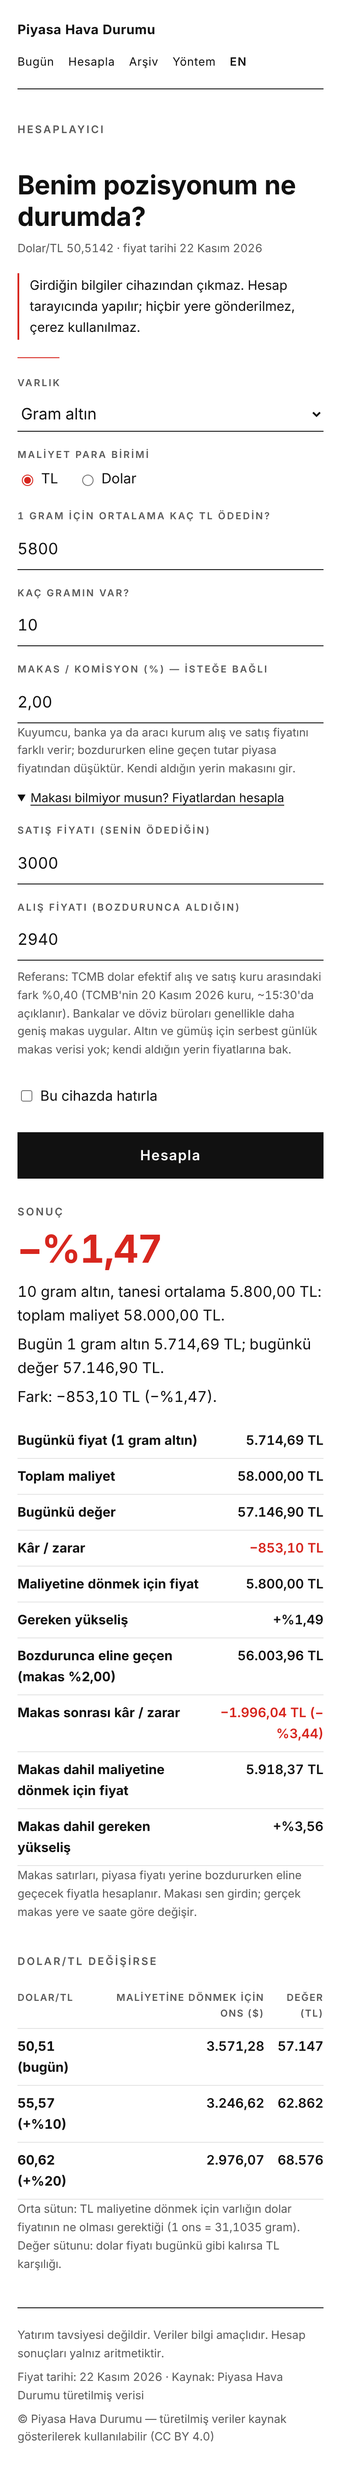
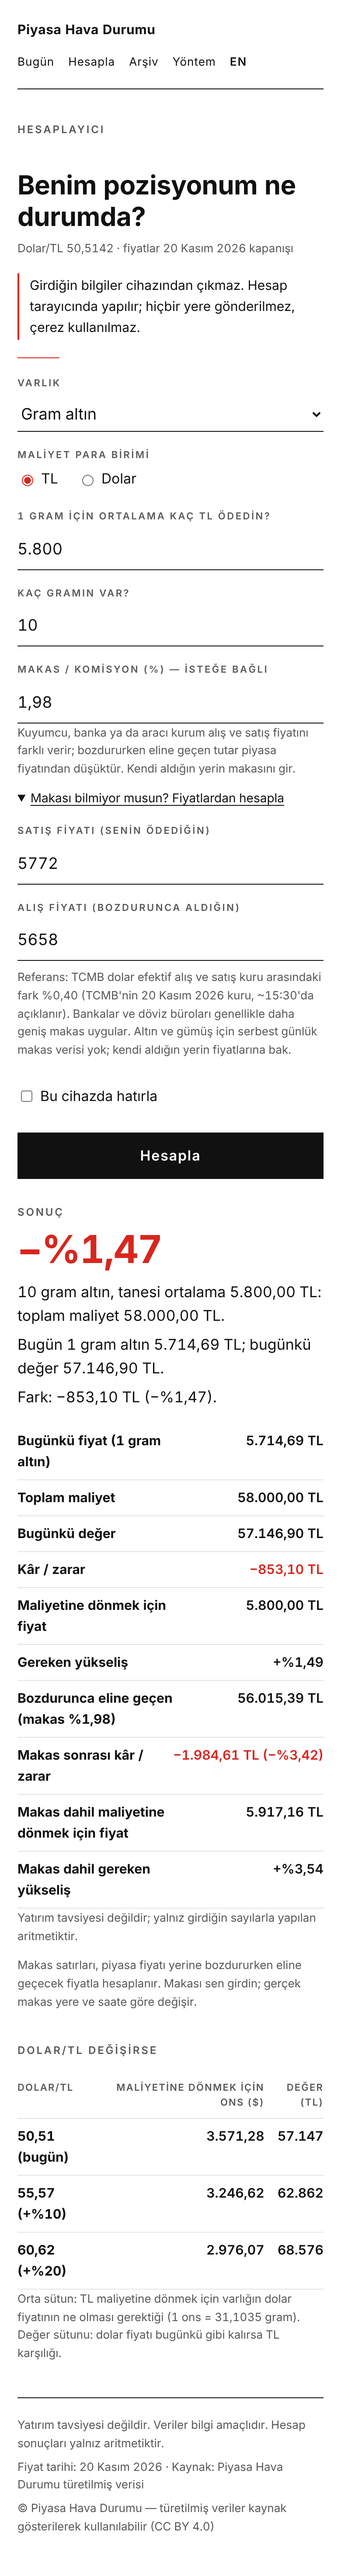
Calculator: one price date, Turkish thousands parsing, realistic spread examples, disclaimer by result; data-source research notes
Claude-Session: https://claude.ai/code/session_01HYDefgn5NWFqFd8ndNssHq

diff --git a/piyasa/hesapla.js b/piyasa/hesapla.js
@@ -8,7 +8,7 @@
   var DATA = /\.github\.io$/.test(location.hostname) ? RAW : "data/site/";
   var KEY = "phd-hesapla-v1";
   var MONTHS = ["Ocak", "Şubat", "Mart", "Nisan", "Mayıs", "Haziran", "Temmuz", "Ağustos", "Eylül", "Ekim", "Kasım", "Aralık"];
-  var P = null;
+  var P = null, PDATE = "";
   var I = window.PHD_I18N, EN = !!(I && I.en);
   var MONTHS_EN = ["January", "February", "March", "April", "May", "June", "July", "August", "September", "October", "November", "December"];
   function L(tr, en) { return EN ? en : tr; }
@@ -30,6 +30,7 @@
     s = String(s || "").trim().replace(/\s/g, "");
     if (EN && /\./.test(s)) s = s.replace(/,/g, "");                // 1,234.56 -> 1234.56
     else if (/,/.test(s)) s = s.replace(/\./g, "").replace(",", ".");   // 1.234,56 -> 1234.56
+    else if (!EN && /^\d{1,3}(\.\d{3})+$/.test(s)) s = s.replace(/\./g, "");  // 5.800 -> 5800 (Turkish thousands)
     else if (EN) s = s.replace(/,/g, "");                            // 10,000 -> 10000
     var v = parseFloat(s);
     return isFinite(v) ? v : NaN;
@@ -109,6 +110,12 @@
     var tp = todayPrice(a, c);
     $("maliyet").placeholder = tp ? L("bugün: ", "today: ") + num(tp, tp >= 1000 ? 0 : 2) : L("örn. 102,50", "e.g. 102.50");
     $("miktar").placeholder = a === "bist100" ? L("örn. 10.000", "e.g. 10,000") : L("örn. 10", "e.g. 10");
+    // dealer-price examples near today's price (2% apart), so the example is never far from reality
+    if (tp && a !== "bist100") {
+      var ex = function (v) { return v >= 1000 ? String(Math.round(v)) : num(v, 2); };
+      $("makas-satis").placeholder = L("örn. ", "e.g. ") + ex(tp * 1.01);
+      $("makas-alis").placeholder = L("örn. ", "e.g. ") + ex(tp * 0.99);
+    }
     save();
     var out = $("sonuc");
     out.textContent = "";
@@ -183,6 +190,8 @@
     }
     t.appendChild(tb);
     out.appendChild(t);
+    out.appendChild(el("p", "mute small", L("Yatırım tavsiyesi değildir; yalnız girdiğin sayılarla yapılan aritmetiktir.",
+      "Not investment advice; arithmetic on the numbers you entered.")));
     if (r.spreadPct) out.appendChild(el("p", "mute small", L(
       "Makas satırları, piyasa fiyatı yerine bozdururken eline geçecek fiyatla hesaplanır. Makası sen girdin; gerçek makas yere ve saate göre değişir.",
       "The spread rows use the price you would actually receive when selling instead of the market price. You entered the spread; real spreads vary by dealer and time.")));
@@ -223,7 +232,10 @@
 
   function init(d) {
     P = d && d.prices ? d.prices : null;
-    var meta = P ? L("Dolar/TL ", "USD/TRY ") + num(+P.usdtry, 4) + L(" · fiyat tarihi ", " · price date ") + trDate(P.usdtry_asof) : L("Güncel fiyat alınamadı.", "Current prices could not be loaded.");
+    // One date for the page: gram gold's last close (the dollar can carry thin weekend quotes with a later date).
+    var ga = d && (d.assets || []).filter(function (x) { return x && x.id === "gram_altin"; })[0];
+    PDATE = (ga && ga.asof) || (P && P.usdtry_asof) || "";
+    var meta = P ? L("Dolar/TL ", "USD/TRY ") + num(+P.usdtry, 4) + L(" · fiyatlar ", " · prices: ") + trDate(PDATE) + L(" kapanışı", " close") : L("Güncel fiyat alınamadı.", "Current prices could not be loaded.");
     $("fiyat-meta").textContent = meta;
     var mr = d && d.makas_ref && d.makas_ref.usd;
     if (mr && typeof mr.pct === "number" && /^\d{4}-\d{2}-\d{2}$/.test(mr.tarih || "")) {
@@ -233,7 +245,7 @@
         : "Referans: TCMB dolar efektif alış ve satış kuru arasındaki fark %" + num(mr.pct, 2) + " (TCMB'nin " + trDate(mr.tarih) + " kuru, ~15:30'da açıklanır). Bankalar ve döviz büroları genellikle daha geniş makas uygular. Altın ve gümüş için serbest günlük makas verisi yok; kendi aldığın yerin fiyatlarına bak.";
       refEl.hidden = false;
     }
-    $("foot-meta").textContent = L("Fiyat tarihi: ", "Price date: ") + (P ? trDate(P.usdtry_asof) : "—") + L(" · Kaynak: Piyasa Hava Durumu türetilmiş verisi", " · Source: Piyasa Hava Durumu derived data");
+    $("foot-meta").textContent = L("Fiyat tarihi: ", "Price date: ") + (P ? trDate(PDATE) : "—") + L(" · Kaynak: Piyasa Hava Durumu türetilmiş verisi", " · Source: Piyasa Hava Durumu derived data");
     update();
   }
 

diff --git a/piyasa/style.css b/piyasa/style.css
@@ -366,3 +366,4 @@ hr.rule-top{border:0;border-top:1px solid var(--rule);margin:28px 0 20px}
 @media (max-width:520px){header.masthead{flex-wrap:wrap;row-gap:10px;padding-top:22px}
 .brandbox,.brand{white-space:nowrap}
 header.masthead nav{width:100%}}
+.res td{white-space:nowrap}

diff --git a/docs/SITE_ROADMAP.md b/docs/SITE_ROADMAP.md
@@ -365,3 +365,4 @@ veri) yayımlanır; puanlama kodu (`tools/`), ham girdiler (`data/derivs`,
 - **2026-11-22 (Boran ile canlı, 9.)** — Dış değerlendirmeden (Opus + Sonnet) düzeltmeler: "İstatistik yalan söylemez" sloganı kaldırıldı (tüm sayfalar, config.js boş → gizli; og kartında yerine "Yatırım tavsiyesi değildir"). Mobil bant yatay kaydırma yerine 2 sütunlu ızgara (değerler kesilmiyor). Üst menüye "Hesapla" eklendi (tüm sayfalar, TR/EN). Ana sayfada seviyenin altına çerçeve cümlesi: seviye ne söyler/ne söylemez, yanlış alarm → Sicil bağlantısı, ABD verisinin bir iş günü gecikmesi. Eski önizleme görüntüleri (62 adet, bazıları "Yapım aşamasında"/örnek veri) silindi; güncel set gerçek data-feed verisiyle yeniden alındı. Kontrol edilenler: tarih seçici tr-TR'de gg.aa.yyyy (yanlış alarm — İngilizce tarayıcıdan); "Nasdaq 100" metni yalnız 21 Kasım'da üretilmiş today.json'da, kod zaten "Nasdaq Bileşik" yazıyor (bir sonraki iş günü düzelir, arşiv kayıtları yeniden yazılmaz).
 - **2026-11-22 (Boran ile canlı, 10.)** — Dış değerlendirmenin 6 önerisi (Boran onayı): (1) ana sayfa sırası: bant → TL tarafı (hesaplayıcı bağlantısı en üstte) → Günün özeti → Makro hava + kurallar → Sorular → "Daha fazlası" (5 sayfa tek listede); (2) sicil etiketleri nötr: "düşüş geldi / düşüş gelmedi / KIRMIZI'sız düşüş" (sicil.json kodları aynı, yalnız görünen kelime; yontem/arsiv/statik özet TR+EN); (3) yontem.html "Eşikler neden bu değerler?" (ayarlanmadı, yuvarlak ve yaygın değerler, donduruldu) + history.csv'den seviye dağılımı (`yontem-stats.js`, CSP connect-src eklendi); (4) "Sorular" bölümünden kural listesini tekrarlayan soru çıkarıldı; (5) Türkiye bileşeni → `docs/MAKRO_KURALLAR_v2_TASLAK.md` (yürürlükte değil; ⏸ Boran: EVDS API anahtarı + eşik kararı); (6) Dünya/Hareket ana sayfada tek satıra indi. Not: Agência Brasil ekonomi akışından ekonomi dışı başlık (Mega-Sena) gelebiliyor — sonraki iş: başlık filtresi.
 - **2026-11-22 (Boran ile canlı, 11.)** — İkinci dış değerlendirmeden (Opus + Sonnet, ikisi 6,5/10): (1) hesaplayıcıya isteğe bağlı "Makas / komisyon (%)" + "fiyatlardan hesapla" (satış/alış → %); sonuçta bozdurunca eline geçen, makas sonrası kâr/zarar, makas dahil başa baş fiyatı (testli). Referans: TCMB dolar efektif alış-satış farkı + kur tarihi (`fetch_tl.parse_tcmb`, today.xml, DTD reddedilir, hata olursa önceki değer korunur; testli) — altın/gümüş için serbest günlük makas verisi yok, sayfada yazıyor. (2) Bant tarihi: gram altının çubuğu bugünse saat, değilse "20 Kas kapanışı" (dolar hafta sonu kotasyonu "canlı" izlenimi veriyordu). (3) Bandın altında tek satır "Makro hava: KIRMIZI · 19 Kas ABD verisi · ne anlatıyor?". (4) Dar ekranda logo tek satır, menü alt satırda; gri metin #595959, etiketler 12 px. (5) Başlıklar: `dil` alanı, ana sayfa yan sütunu yalnız en/tr; ekonomi akışlarında piyango başlıkları ayıklanır (`exclude_words`); boş kimlikli EIA bağlantısı guid'den tamamlanır, tamamlanamazsa atlanır (testli). Bekleyen: TÜFE'ye göre reel getiri (EVDS anahtarı gerekir), KIRMIZI kelimesi (Boran düşünüyor).
+- **2026-11-23 (Boran ile canlı, 12.)** — Veri kaynakları araştırıldı → `docs/VERI_KAYNAKLARI.md`. Karar (Boran): ücretsiz ve doğru kaynağı olan geçer, olmayan Yahoo'dan devam; gelir modeli ya da uyarı gelirse yeniden. Bugün hiçbir veri birebir değiştirilmedi: TCMB günde bir kez (gün içi gram altını bozar), EIA petrol haftalık gecikmeli; TCMB yalnız makas referansında. Üçüncü dış değerlendirme (ikisi yine 6,5/10) düzeltmeleri: hesaplayıcıda tek fiyat tarihi (gram altın kapanışı; hafta sonu dolar kotasyonu "22 Kasım" gösteriyordu), Türkçe binlik ayırıcı okunuyor ("5.800" → 5800; önce 5,8 sayılıyordu), makas örnekleri bugünkü fiyatın ±%1'i, sonuçta "yatırım tavsiyesi değildir" satırı, tutarlar tek satırda.

diff --git a/docs/VERI_KAYNAKLARI.md b/docs/VERI_KAYNAKLARI.md
@@ -1,0 +1,18 @@
+# Veri kaynakları — ücretsiz ve yeniden yayına izinli seçenekler (araştırma: 23 Kasım 2026)
+
+**Karar (Boran, 23 Kasım):** ücretsiz *ve* doğru (güncel) bir kaynağı olan veri oraya geçer; olmayanlar şimdiki
+kaynaktan (Yahoo Finance) devam eder. Gelir modeline geçerken ya da bir kaynak sahibinden uyarı gelirse yeniden ele alınır.
+Hukuki görüş değildir.
+
+| Veri | Şimdi | Ücretsiz + izinli aday | Neden henüz geçilmedi |
+|---|---|---|---|
+| Dolar/TL | Yahoo TRY=X (gün içi) | TCMB gösterge kurları (`kurlar/today.xml`, arşiv `kurlar/YYYYMM/GGAAYYYY.xml`; EVDS anahtarlı). Şart: "kaynak gösterilmek suretiyle yayımlanabilir", ticari kullanım TCMB'nin yazılı iznine tabi. | Günde bir kez (~15:30). Gram altın = ons × dolar/TL olduğu için gün içi gram altın bayat kurla hesaplanırdı → doğruluk düşer. **Kullanılan yer:** hesaplayıcıdaki makas referansı (efektif alış/satış). |
+| Brent / WTI | Yahoo BZ=F / CL=F | EIA spot (RBRTE, RWTC) — kamu malı; FRED `fredgraph.csv?id=DCOILBRENTEU` / `DCOILWTICO` anahtarsız. | EIA spot haftalık toplu güncellenir (birkaç gün–1 hafta gecikme) → bantta "1 günlük değişim" yanlış olur. |
+| Ons altın | Yahoo GC=F | TCMB EVDS `TP.ALTINPIYASA.AGORT03` (Borsa İstanbul kıymetli madenler piyasası USD/ons ağırlıklı ortalama; doğrulanmadı, EVDS anahtarı gerekir). LBMA lisanslı; FRED'deki LBMA serileri 2022'de kaldırıldı; ücretsiz API'ler (freegoldapi, goldprice.dev, metalcharts) ya Yahoo'dan türetilmiş ya 30 gün geçmişle sınırlı ya da yeniden yayını yasaklıyor. | ⏸ EVDS anahtarı (Boran) + seri doğrulaması; ağırlıklı ortalama kapanış değildir. |
+| Ons gümüş | Yahoo SI=F | Doğrulanmış serbest kaynak bulunamadı. | — |
+| BIST 100 ve hisseler | Yahoo XU100.IS / .IS | Borsa İstanbul verisi yalnız lisanslı dağıtıcılar üzerinden; gün sonu dahil serbest yeniden yayın maddesi bulunamadı. | Yazılı izin: vyk-marketing@borsaistanbul.com |
+| Kripto | OKX herkese açık API (+ Yahoo BTC-USD/ETH-USD uzun geçmiş için) | Borsa API'leri | — |
+
+Kaynaklar: TCMB kullanım koşulları (tcmb.gov.tr → Diğer), EVDS kullanım koşulları (evds3.tcmb.gov.tr belge 18),
+EIA telif/yeniden kullanım (eia.gov/about/copyrights_reuse.php), LBMA fiyat lisansı (lbma.org.uk/prices-and-data),
+FRED duyurusu 2022-01 (IBA verisinin kaldırılması), Borsa İstanbul veri yayımı (borsaistanbul.com/en/data/data-dissemination).
